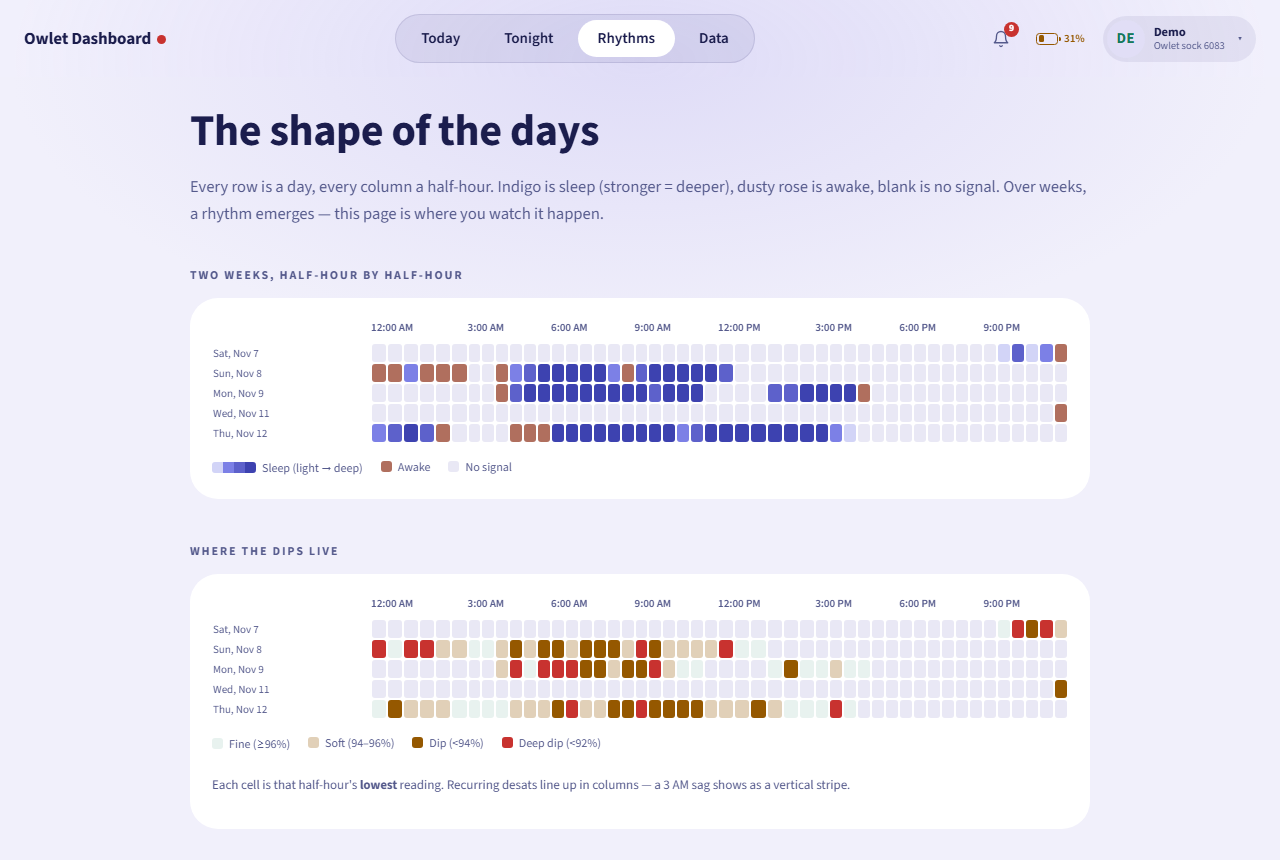
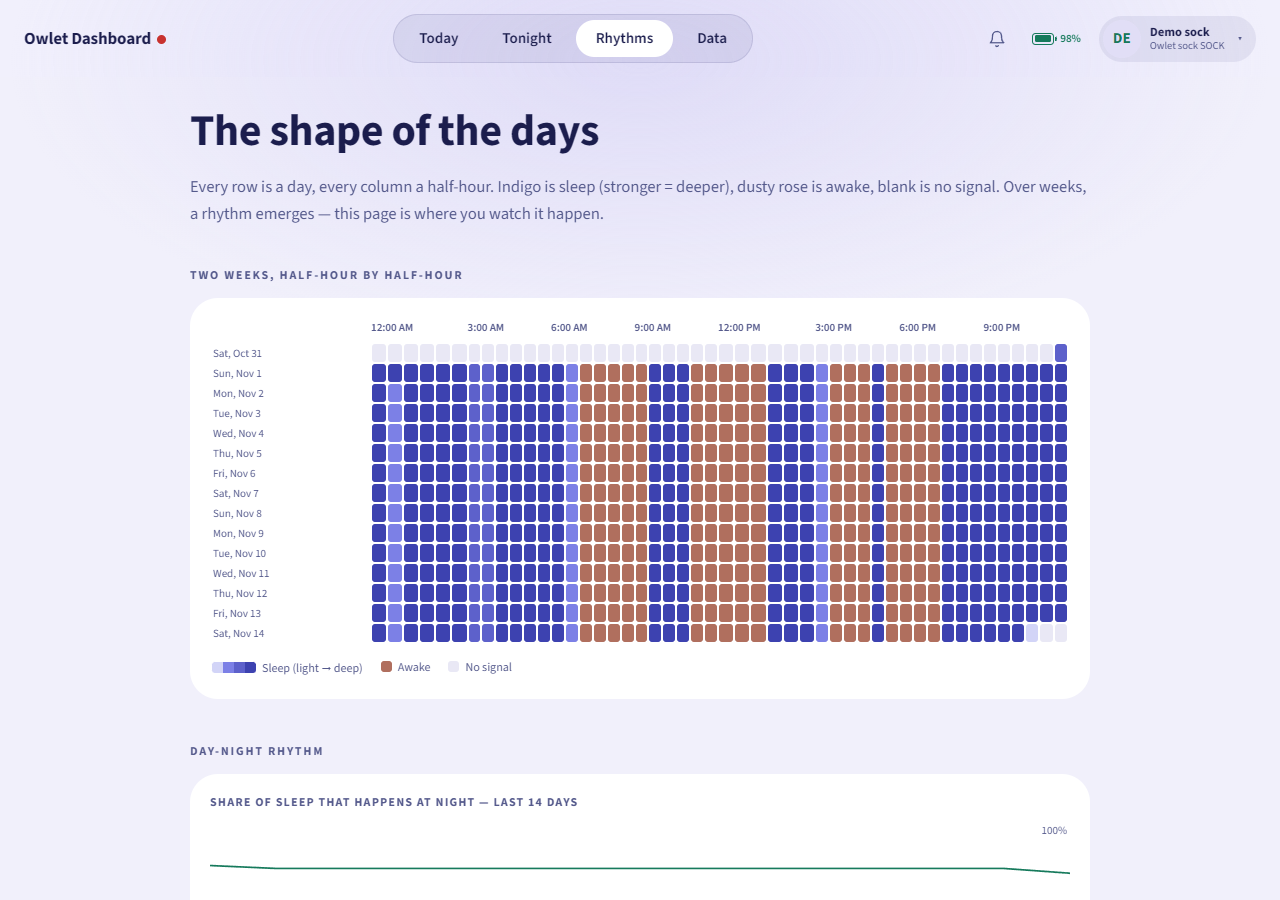
Set the fork up for its own releases and refresh the README
Credit the original project at the top of the README, list what v0.2 adds,
and point download, Docker and in-app links at this fork. New screenshots
use made-up demo data. The release workflow no longer expects updater
signature files (v0.2 removed the updater), and Docker images also build
from v0.2.

diff --git a/app/shell.py b/app/shell.py
@@ -656,7 +656,7 @@ def render_shell(
         <section class="install-opt">
           <h3>Or get the Windows desktop app</h3>
           <p>Download the installer from the releases page:</p>
-          <a class="install-cta" href="https://github.com/pbozzay/owlet-dashboard/releases/latest"
+          <a class="install-cta" href="https://github.com/petemess95/owlet-dashboard/releases/latest"
             target="_blank" rel="noopener noreferrer">Open the releases page →</a>
           <p class="install-hint"><b>You pick how it runs on first launch:</b></p>
           <ul class="install-modes">

diff --git a/app/auth_pages.py b/app/auth_pages.py
@@ -308,7 +308,7 @@ _LANDING = """<!doctype html>
       <div class="fine">
         <p>{privacy_copy}</p>
         <p>Free, open source, and unofficial — provided as-is, not affiliated with Owlet Baby
-          Care. <a href="https://github.com/pbozzay/owlet-dashboard" rel="noopener">View the
+          Care. <a href="https://github.com/petemess95/owlet-dashboard" rel="noopener">View the
           project on GitHub</a>.</p>
         <p>Retrospective trend viewing only — not a medical monitor or alert replacement.</p>
       </div>

diff --git a/README.md b/README.md
@@ -1,4 +1,7 @@
-# Owlet Dashboard
+# Owlet Dashboard (petemess95 fork)
+
+> Forked from [pbozzay/owlet-dashboard](https://github.com/pbozzay/owlet-dashboard). All
+> credit for the original project goes to pbozzay; this fork adds the v0.2 changes below.
 
 An **unofficial**, open-source, provided-as-is history collector and dashboard for Owlet
 Dream Sock / Smart Sock data. Not affiliated with or endorsed by Owlet Baby Care.
@@ -22,9 +25,29 @@ alarm sound).
 
 ![Today page](docs/screenshots/today.png)
 
+| Tonight | Rhythms | Data |
+|---|---|---|
+| ![Tonight page](docs/screenshots/tonight.png) | ![Rhythms page](docs/screenshots/rhythms.png) | ![Data workbench](docs/screenshots/data.png) |
+
+Screenshots use made-up demo data.
+
+## What this fork adds (v0.2)
+
+- **Desktop alerts:** an always-on-top widget (three sizes, sparkline, "armed" dot), a
+  monitor flash, and a WASAPI alarm that can unmute and raise the volume on red.
+- **Snooze and acknowledge:** an "I'm checking" button, configurable snooze length, global
+  hotkeys, and snooze from a game controller button.
+- **Fits around gaming:** detects fullscreen games, keeps the overlay out of screen captures,
+  and adds a live tray icon showing the current SpO₂.
+- **Windows integration:** start with Windows, start hidden, keep-awake while armed, and a
+  first-run walk-through.
+- **Redesigned pages:** Today, Tonight, Rhythms and the sign-in pages use a new night-sky
+  theme. Frozen vitals are hidden while the base station is off.
+- **No auto-updater:** install new versions by hand from the releases page.
+
 ## Windows desktop app
 
-[Download the installer](https://github.com/pbozzay/owlet-dashboard/releases/latest). On
+[Download the installer](https://github.com/petemess95/owlet-dashboard/releases/latest). On
 first launch, choose a mode:
 
 - **Collect on this PC** — standalone; records only while the app is open and the PC is
@@ -42,7 +65,7 @@ on PC alerts, press **Test amber** / **Test red** in **Settings → This PC**. S
 docker run -d --name owlet-dashboard \
   -p 8888:8888 \
   -v /path/to/appdata/owlet-dashboard:/data \
-  ghcr.io/pbozzay/owlet-dashboard:latest
+  ghcr.io/petemess95/owlet-dashboard:latest
 ```
 
 Data (SQLite) lives in `/data`. The container runs as `1000:1000` by default; set `PUID`/`PGID`
